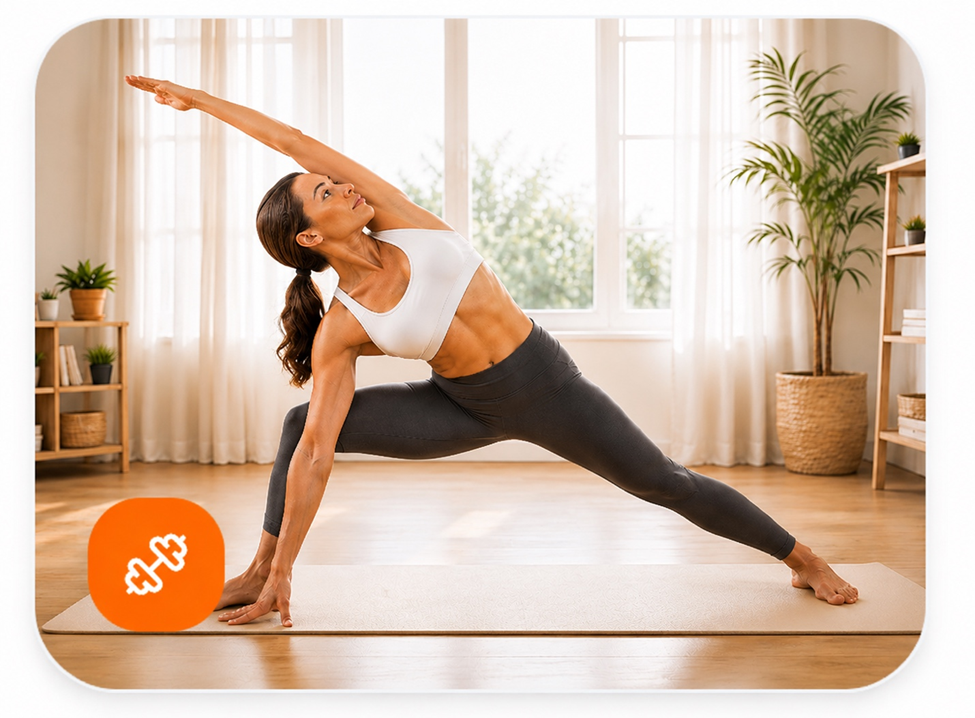
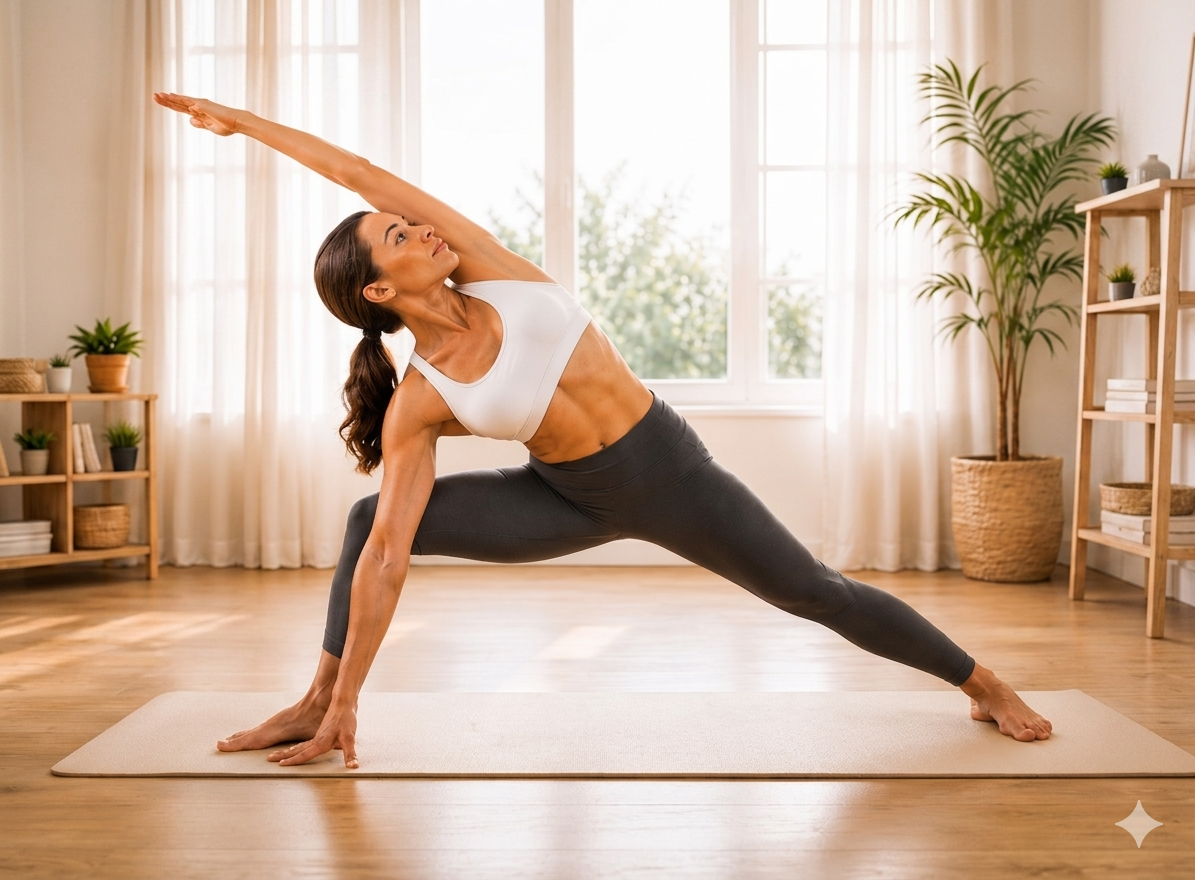
changes made to livefit

diff --git a/src/components/UniqueNeeds.tsx b/src/components/UniqueNeeds.tsx
@@ -245,21 +245,27 @@ const UniqueNeeds = () => {
           viewport={{ once: true }}
           className="rounded-[3rem] bg-[#FFF8F2] py-8 px-8 md:px-16 flex flex-col lg:flex-row items-center justify-between gap-8 border border-orange-100"
         >
-          <div className="flex items-center gap-8">
-            <div className="w-16 h-16 rounded-3xl bg-white flex items-center justify-center text-orange-500 shadow-xl shadow-orange-100/50 border border-orange-50">
+          <div className="flex flex-col sm:flex-row items-center gap-6 text-center sm:text-left">
+            <div className="w-16 h-16 rounded-3xl bg-white flex items-center justify-center text-orange-500 shadow-xl shadow-orange-100/50 border border-orange-50 shrink-0">
               <Sparkles className="w-8 h-8" />
             </div>
-            <div className="text-left">
-              <h4 className="text-2xl md:text-3xl font-bold font-serif mb-1">Start Your Wellness Journey</h4>
+            <div>
+              <h4 className="text-2xl md:text-3xl font-bold font-serif mb-1 text-sky-950">Start Your Wellness Journey Today</h4>
               <p className="text-slate-500 font-medium">Move better. Breathe deeper. Live healthier.</p>
             </div>
           </div>
           
-          <div className="flex flex-col sm:flex-row items-center gap-4 w-[20%] lg:w-auto">
-            <button className="w-[40%] sm:w-auto px-10 py-4 bg-orange-500 text-white rounded-2xl font-bold text-sm shadow-xl shadow-orange-200 hover:bg-slate-900 transition-all duration-300">
-              EXPLORE ALL PROGRAMS
+          <div className="flex flex-col sm:flex-row items-center gap-4 w-full lg:w-auto">
+            <button 
+              onClick={() => navigate('/schedule')}
+              className="w-full sm:w-auto px-10 py-4 bg-orange-500 text-white rounded-2xl font-bold text-sm shadow-xl shadow-orange-200 hover:bg-slate-900 transition-all duration-300"
+            >
+              JOIN LIVE CLASSES
             </button>
-            <button className="w-[20%] sm:w-auto px-10 py-4 bg-white text-orange-600 border border-orange-100 rounded-2xl font-bold text-sm hover:bg-orange-50 transition-all duration-300 flex items-center justify-center gap-2">
+            <button 
+              onClick={() => navigate('/inquiry')}
+              className="w-full sm:w-auto px-10 py-4 bg-white text-orange-600 border border-orange-100 rounded-2xl font-bold text-sm hover:bg-orange-50 transition-all duration-300 flex items-center justify-center gap-2"
+            >
               BOOK FREE CONSULTATION <ArrowRight className="w-4 h-4" />
             </button>
           </div>

diff --git a/src/components/LiveFitTestimonials.tsx b/src/components/LiveFitTestimonials.tsx
@@ -1,5 +1,6 @@
 import React from 'react';
 import { motion } from 'framer-motion';
+import { useNavigate } from 'react-router-dom';
 import { Star, Quote, Globe2, Users2, Building, Activity } from 'lucide-react';
 
 const testimonialsData = [
@@ -111,6 +112,7 @@ const testimonialsData = [
 ];
 
 const LiveFitTestimonials = () => {
+  const navigate = useNavigate();
   return (
     <section className="py-24 bg-[#FAFAFA] text-sky-950 overflow-hidden relative">
       <div className="absolute top-0 left-1/4 w-96 h-96 bg-orange-500/5 rounded-full blur-[120px] pointer-events-none" />
@@ -230,11 +232,17 @@ const LiveFitTestimonials = () => {
               <p className="text-gray-500 font-bold text-xs md:text-sm">Move better. Breathe deeper. Live healthier.</p>
             </div>
           </div>
-          <div className="flex flex-row items-center gap-3 relative z-10 w-full lg:w-auto">
-            <button className="bg-orange-500 hover:bg-orange-600 text-white font-bold py-3 px-6 rounded-xl transition-all shadow-lg shadow-orange-500/20 hover:-translate-y-1 flex-1 sm:flex-none text-[12px] uppercase tracking-wider whitespace-nowrap">
+          <div className="flex flex-col sm:flex-row items-center gap-3 relative z-10 w-full lg:w-auto">
+            <button 
+              onClick={() => navigate('/schedule')}
+              className="bg-orange-500 hover:bg-orange-600 text-white font-bold py-3.5 px-8 rounded-xl transition-all shadow-lg shadow-orange-500/20 hover:-translate-y-1 w-full sm:w-auto text-[12px] uppercase tracking-wider whitespace-nowrap"
+            >
               Join Live Classes
             </button>
-            <button className="bg-white border-2 border-sky-950 text-sky-950 hover:bg-gray-50 font-bold py-3 px-6 rounded-xl transition-all flex-1 sm:flex-none text-[12px] uppercase tracking-wider whitespace-nowrap">
+            <button 
+              onClick={() => navigate('/inquiry')}
+              className="bg-white border-2 border-sky-950 text-sky-950 hover:bg-gray-50 font-bold py-3.5 px-8 rounded-xl transition-all w-full sm:w-auto text-[12px] uppercase tracking-wider whitespace-nowrap"
+            >
               Book Free Consultation
             </button>
           </div>

diff --git a/src/components/ScheduleCTA.tsx b/src/components/ScheduleCTA.tsx
@@ -9,7 +9,7 @@ const ScheduleCTA: React.FC = () => {
           No Excuses! It’s your move
         </p>
         
-        <button className="px-16 py-6 bg-orange-500 hover:bg-orange-600 text-white rounded-full font-bold text-xl shadow-2xl shadow-pink-500/20 transition-all duration-500 transform hover:scale-105 active:scale-95 flex items-center gap-3 group">
+        <button className="w-full sm:w-auto px-8 md:px-16 py-6 bg-orange-500 hover:bg-orange-600 text-white rounded-full font-bold text-lg md:text-xl shadow-2xl shadow-pink-500/20 transition-all duration-500 transform hover:scale-105 active:scale-95 flex items-center justify-center gap-3 group">
           Start your 3-day free trial
           <MoveRight className="group-hover:translate-x-2 transition-transform" />
         </button>
